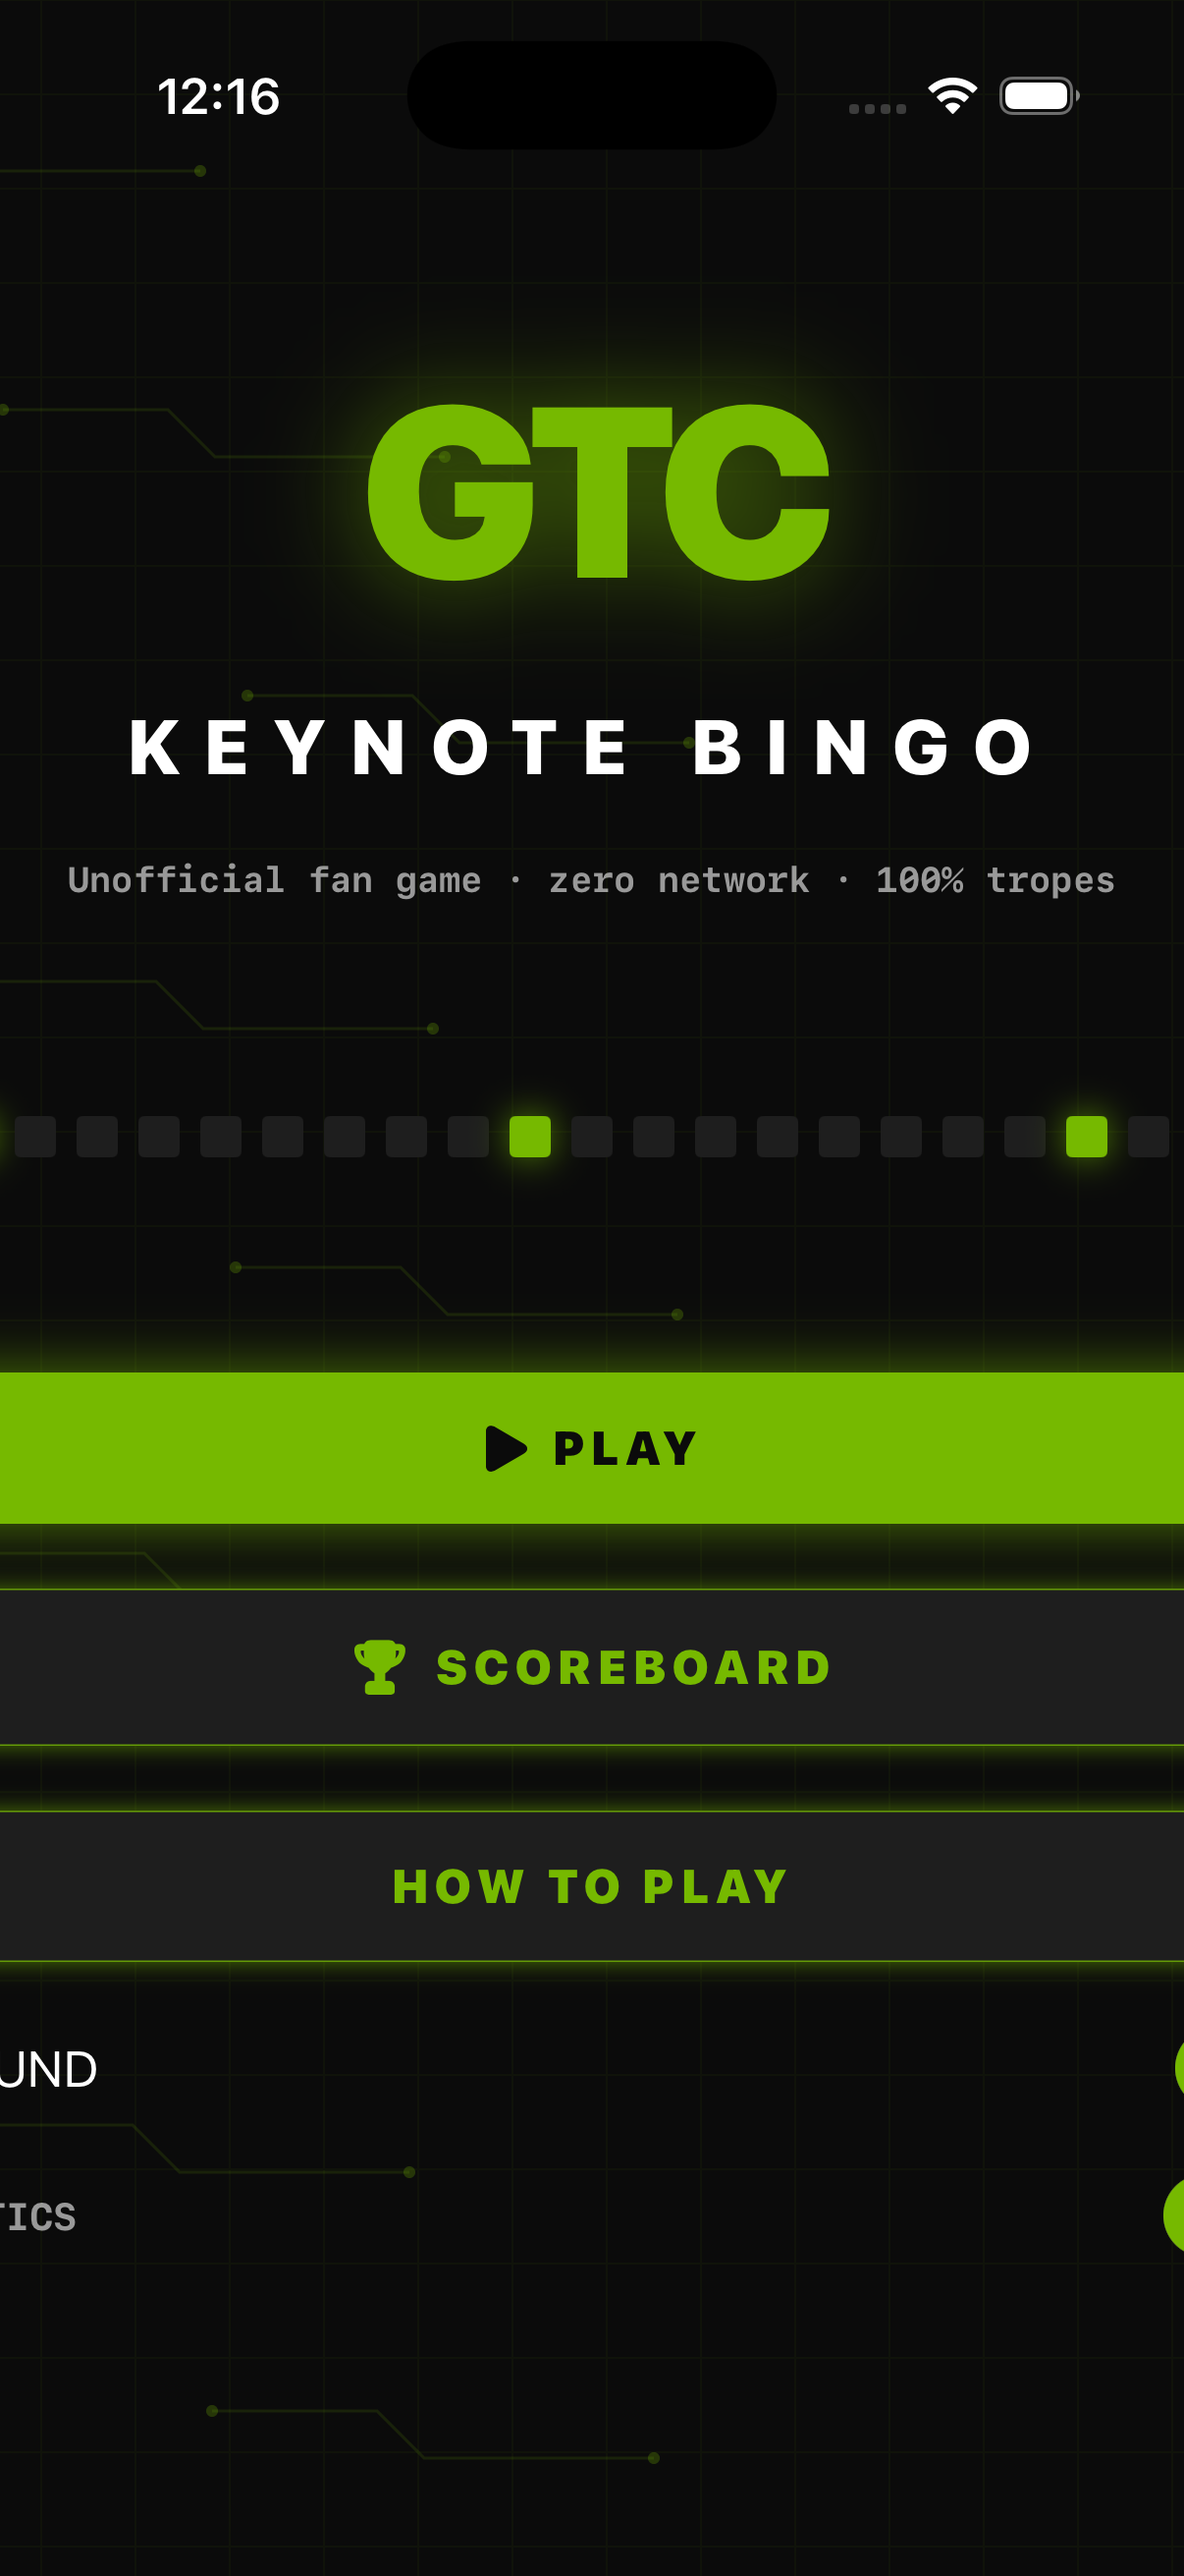
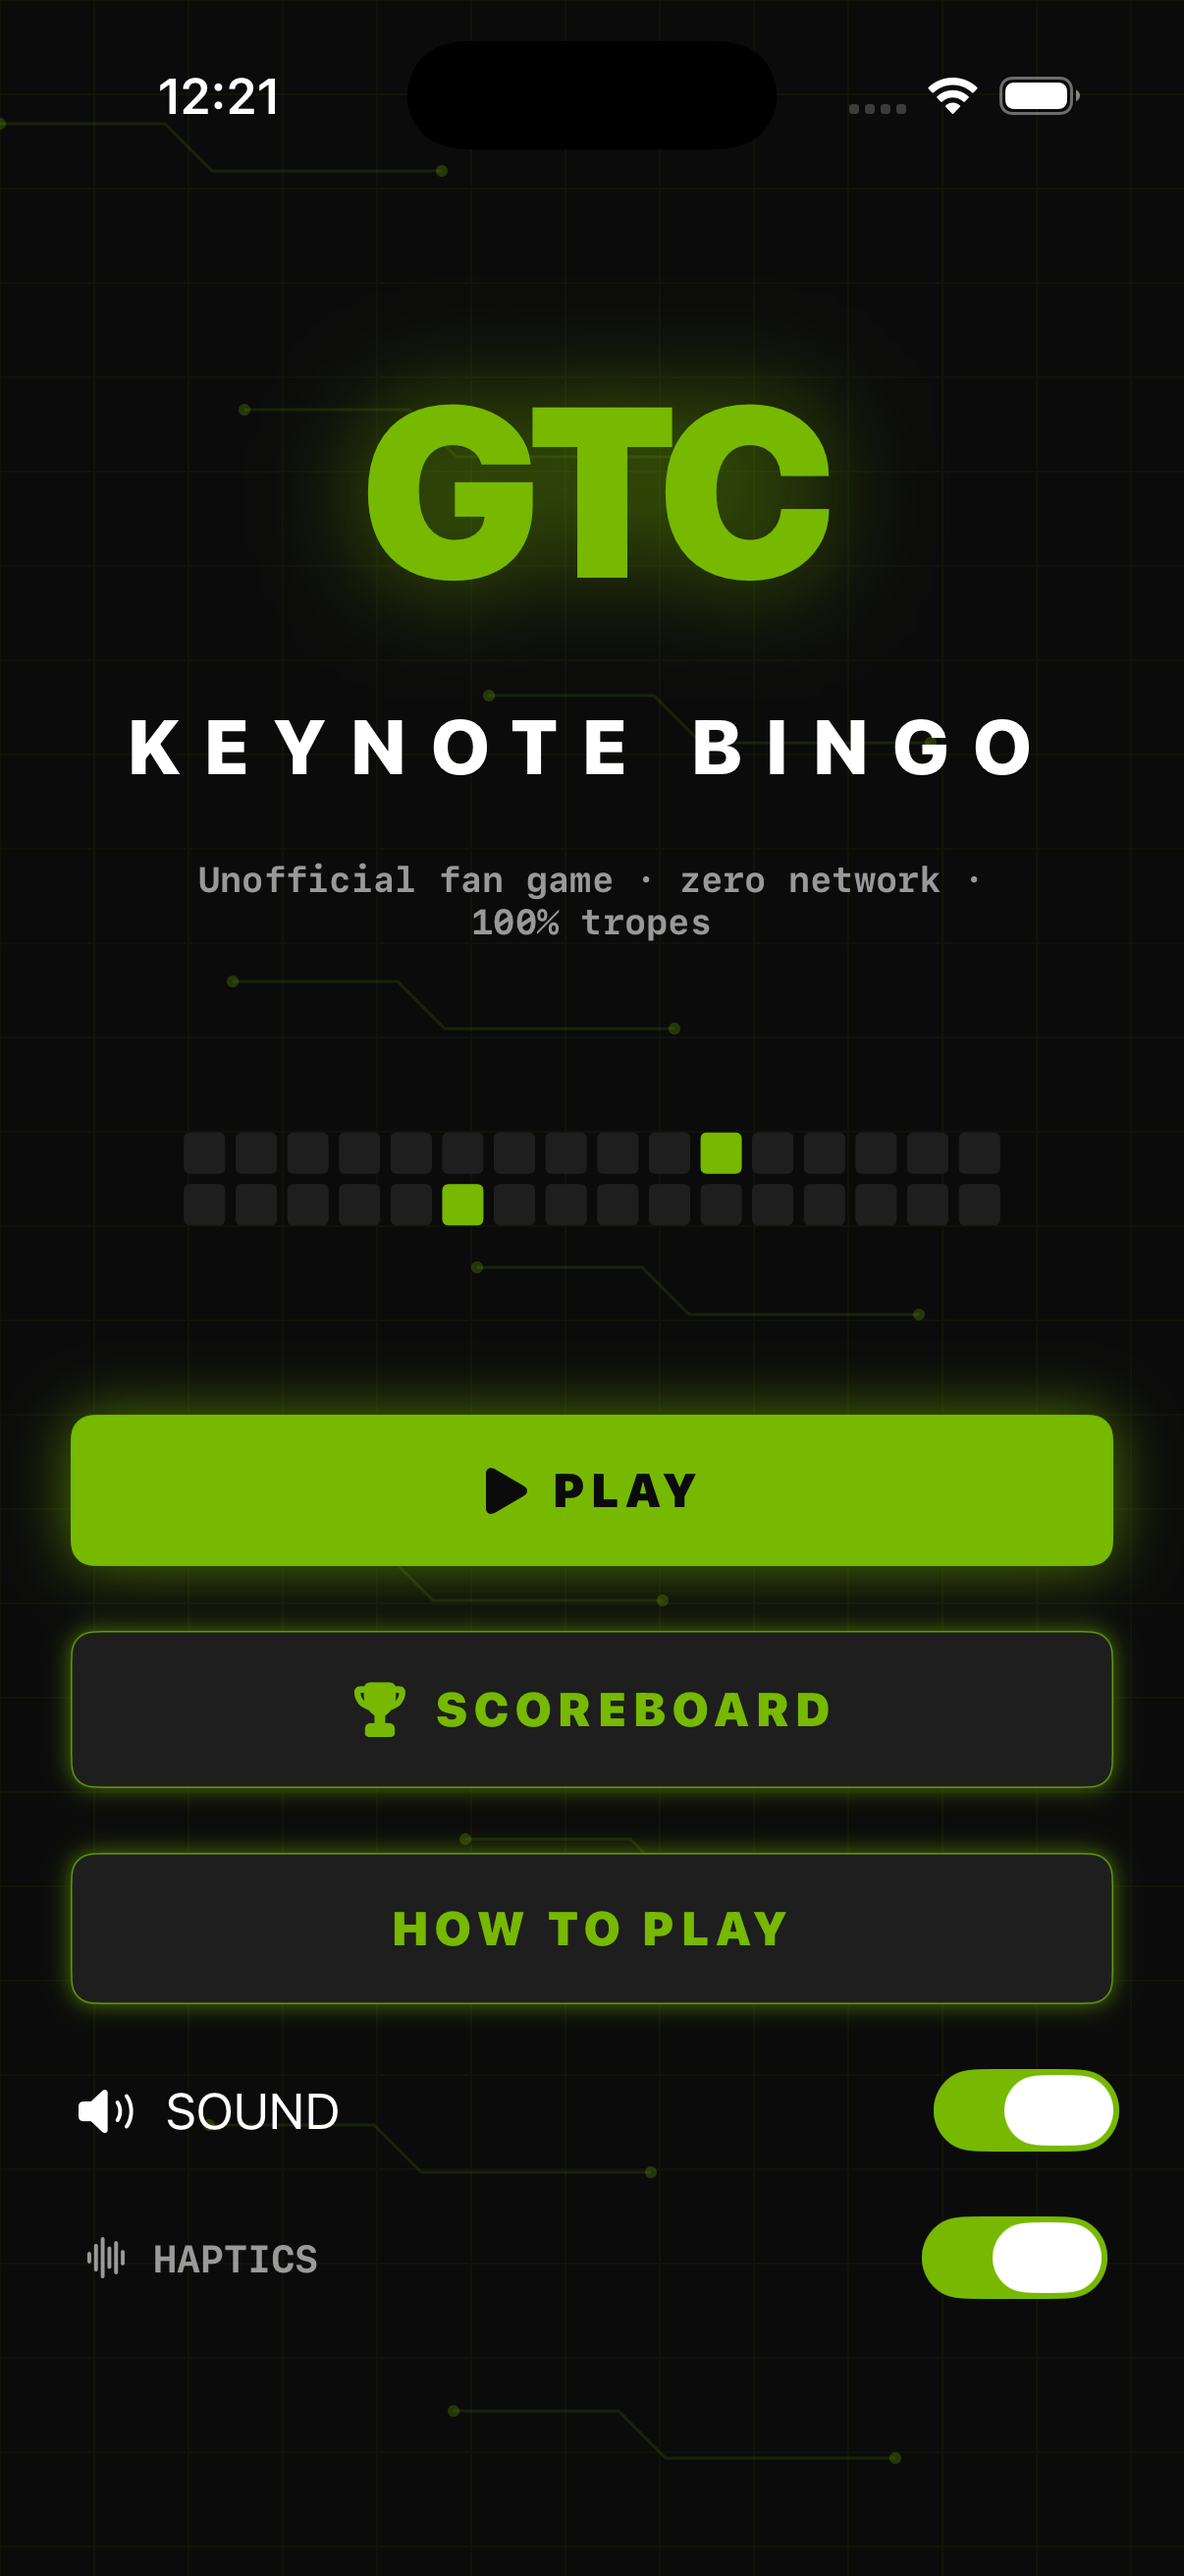
Polish GTC Bingo: fit title layout, board flip/deal animations, native share sheet

diff --git a/ios-gtc-bingo/App/BoardView.swift b/ios-gtc-bingo/App/BoardView.swift
@@ -4,9 +4,7 @@ import UIKit
 struct BoardView: View {
   @EnvironmentObject private var store: GameStore
   @State private var showBingo = false
-  @State private var showShare = false
-  @State private var shareImage: UIImage?
-  @State private var boardFlip = false
+  @State private var flipAngle: Double = 0
   @State private var tileBounce: Set<Int> = []
 
   private let columns = Array(repeating: GridItem(.flexible(), spacing: 7), count: 5)
@@ -23,16 +21,14 @@ struct BoardView: View {
       .padding(.horizontal, 14)
       .padding(.top, 6)
       if showBingo {
+        Color.black.opacity(0.55)
+          .ignoresSafeArea()
+          .onTapGesture { showBingo = false }
         ConfettiView()
         bingoOverlay
       }
     }
     .toolbar(.hidden, for: .navigationBar)
-    .sheet(isPresented: $showShare) {
-      if let shareImage {
-        ShareSheet(items: [shareImage])
-      }
-    }
   }
 
   private var header: some View {
@@ -51,7 +47,11 @@ struct BoardView: View {
         .font(.monoStat(12))
         .foregroundStyle(.white)
       Menu {
-        Button("New Card", systemImage: "arrow.clockwise") { store.newCard() }
+        Button("New Card", systemImage: "arrow.clockwise") {
+          withAnimation(.spring(response: 0.4, dampingFraction: 0.7)) {
+            store.newCard()
+          }
+        }
         Button("Share", systemImage: "square.and.arrow.up") { share() }
         NavigationLink("Players", destination: ScoreboardView())
       } label: {
@@ -95,12 +95,24 @@ struct BoardView: View {
             withAnimation(.spring(response: 0.35, dampingFraction: 0.8)) { showBingo = true }
           }
         }
-        .rotation3DEffect(
-          .degrees(boardFlip ? 0 : 0),
-          axis: (x: 0, y: 1, z: 0)
+        .transition(
+          .asymmetric(
+            insertion: .scale(scale: 0.6).combined(with: .opacity),
+            removal: .opacity
+          )
+        )
+        .animation(
+          .spring(response: 0.4, dampingFraction: 0.7).delay(Double(index) * 0.02),
+          value: store.currentPlayer.card.seed
         )
       }
     }
+    .id(store.currentPlayer.card.seed)
+    .rotation3DEffect(
+      .degrees(flipAngle),
+      axis: (x: 0, y: 1, z: 0),
+      perspective: 0.4
+    )
     .animation(.easeInOut(duration: 0.35), value: store.currentPlayer.card.marked)
   }
 
@@ -113,8 +125,10 @@ struct BoardView: View {
       .foregroundStyle(Theme.muted)
       if store.state.players.count > 1 {
         Button {
-          withAnimation(.easeInOut(duration: 0.35)) {
-            boardFlip.toggle()
+          withAnimation(.easeInOut(duration: 0.45)) {
+            flipAngle += 360
+          }
+          DispatchQueue.main.asyncAfter(deadline: .now() + 0.22) {
             store.passToNextPlayer()
           }
         } label: {
@@ -139,8 +153,10 @@ struct BoardView: View {
       Button("SHARE CARD") { share() }
         .buttonStyle(GlowButtonStyle(filled: true))
       Button("NEW CARD") {
-        store.newCard()
-        showBingo = false
+        withAnimation(.spring(response: 0.4, dampingFraction: 0.7)) {
+          store.newCard()
+          showBingo = false
+        }
       }
       .buttonStyle(GlowButtonStyle())
     }
@@ -156,9 +172,37 @@ struct BoardView: View {
   private func share() {
     let renderer = ImageRenderer(content: ShareCardView(player: store.currentPlayer))
     renderer.scale = 3
-    shareImage = renderer.uiImage
-    showShare = shareImage != nil
+    guard let image = renderer.uiImage else { return }
+    DispatchQueue.main.async {
+      guard
+        let windowScene = UIApplication.shared.connectedScenes
+          .compactMap({ $0 as? UIWindowScene })
+          .first(where: { $0.activationState == .foregroundActive }),
+        let window = windowScene.windows.first(where: \.isKeyWindow),
+        let root = window.rootViewController
+      else { return }
+      let presenter = topViewController(from: root)
+      presenter.present(
+        UIActivityViewController(activityItems: [image], applicationActivities: nil),
+        animated: true
+      )
+    }
   }
+}
+
+private func topViewController(from root: UIViewController) -> UIViewController {
+  if let presented = root.presentedViewController {
+    return topViewController(from: presented)
+  }
+  if let navigation = root as? UINavigationController,
+    let visible = navigation.visibleViewController
+  {
+    return topViewController(from: visible)
+  }
+  if let tab = root as? UITabBarController, let selected = tab.selectedViewController {
+    return topViewController(from: selected)
+  }
+  return root
 }
 
 private struct TileView: View {

diff --git a/ios-gtc-bingo/App/TitleView.swift b/ios-gtc-bingo/App/TitleView.swift
@@ -79,17 +79,42 @@ struct TitleView: View {
 private struct DieShot: View {
   var body: some View {
     TimelineView(.animation(minimumInterval: 0.08)) { timeline in
-      let phase = Int(timeline.date.timeIntervalSinceReferenceDate * 8)
-      HStack(spacing: 7) {
-        ForEach(0..<25, id: \.self) { index in
-          RoundedRectangle(cornerRadius: 2)
-            .fill((index + phase) % 9 == 0 ? Theme.green : Theme.panel)
-            .frame(width: 14, height: 14)
-            .shadow(color: Theme.green.opacity((index + phase) % 9 == 0 ? 0.7 : 0), radius: 6)
+      Canvas { context, size in
+        let columns = 16
+        let rows = 2
+        let gap = min(6.0, size.width / 100)
+        let square = min(14.0, (size.width - gap * CGFloat(columns - 1)) / CGFloat(columns))
+        let width = CGFloat(columns) * square + CGFloat(columns - 1) * gap
+        let height = CGFloat(rows) * square + gap
+        let originX = max(0, (size.width - width) / 2)
+        let originY = max(0, (size.height - height) / 2)
+        let phase = Int(timeline.date.timeIntervalSinceReferenceDate * 8)
+        for row in 0..<rows {
+          for column in 0..<columns {
+            let index = row * columns + column
+            let lit = (index + phase) % 11 == 0
+            let rect = CGRect(
+              x: originX + CGFloat(column) * (square + gap),
+              y: originY + CGFloat(row) * (square + gap),
+              width: square,
+              height: square
+            )
+            context.fill(
+              Path(roundedRect: rect, cornerRadius: 2),
+              with: .color(lit ? Theme.green : Theme.panel)
+            )
+            if lit {
+              context.fill(
+                Path(ellipseIn: rect.insetBy(dx: square * 0.2, dy: square * 0.2)),
+                with: .color(Theme.green.opacity(0.8))
+              )
+            }
+          }
         }
       }
-      .frame(maxWidth: .infinity)
     }
+    .frame(maxWidth: .infinity)
+    .clipped()
   }
 }
 
